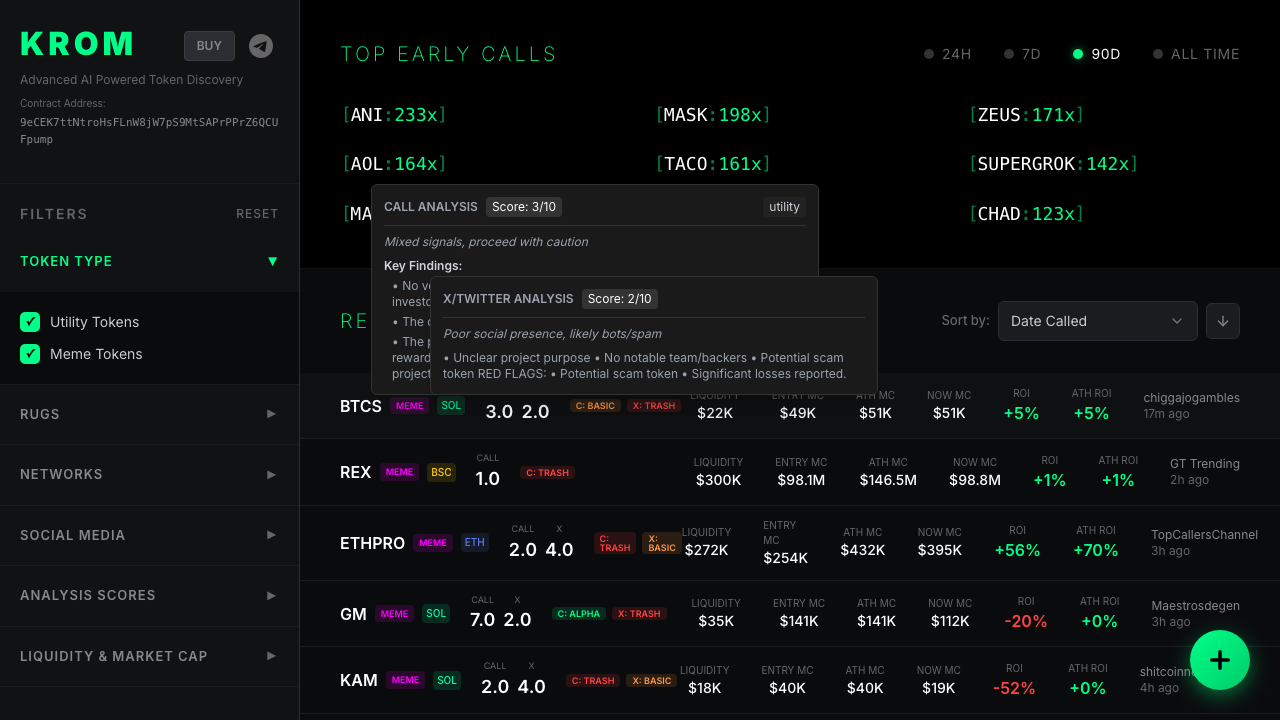
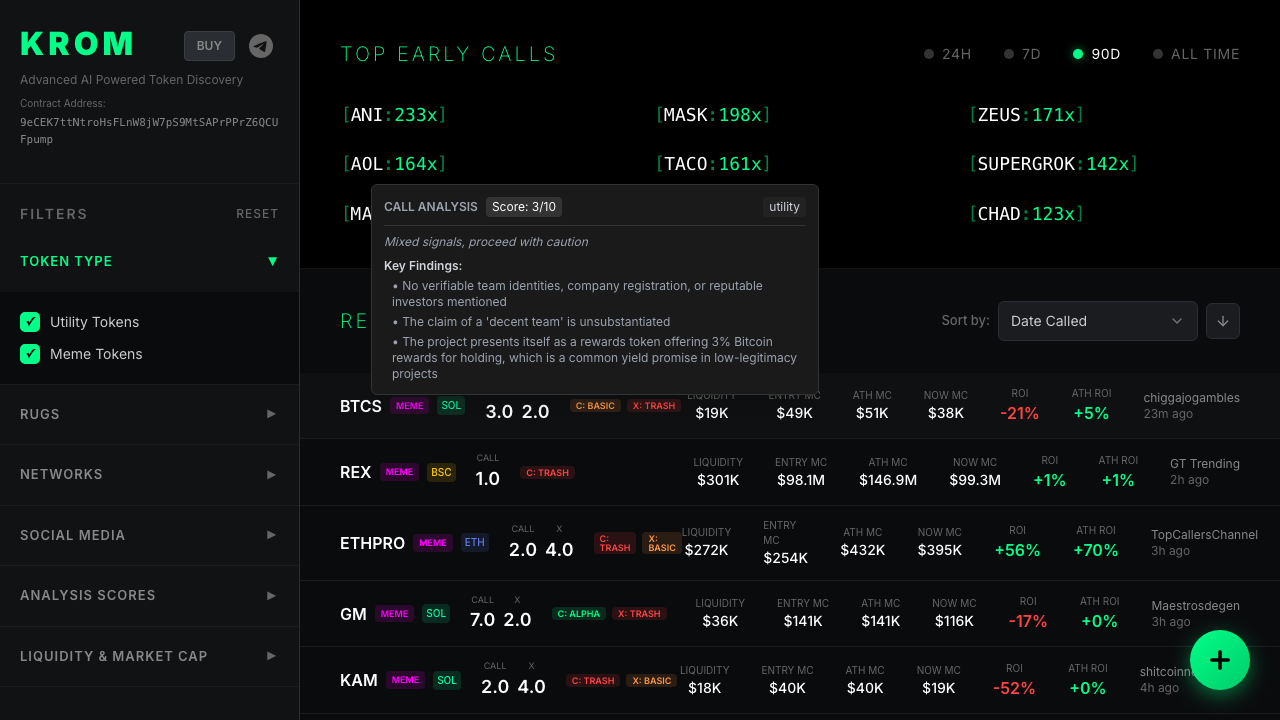
fix: Configure TooltipProvider with proper delay settings for closing behavior

diff --git a/tests/test-tooltip-closing.spec.ts b/tests/test-tooltip-closing.spec.ts
@@ -1,0 +1,57 @@
+import { test, expect } from '@playwright/test';
+
+test('Tooltips close when mouse leaves', async ({ page }) => {
+  // Navigate to the page
+  await page.goto('https://lively-torrone-8199e0.netlify.app');
+  
+  // Wait for content to load
+  await page.waitForSelector('text=RECENT CALLS', { timeout: 30000 });
+  await page.waitForTimeout(3000);
+  
+  // Find badges
+  const callBadge = page.locator('span:has-text("C:")').first();
+  const callBadgeCount = await callBadge.count();
+  
+  if (callBadgeCount === 0) {
+    console.log('No Call badges found, skipping test');
+    return;
+  }
+  
+  console.log('Testing tooltip open/close behavior...');
+  
+  // Test 1: Hover on Call badge
+  await callBadge.scrollIntoViewIfNeeded();
+  await callBadge.hover();
+  await page.waitForTimeout(500);
+  
+  let tooltipsVisible = await page.locator('[role="tooltip"]').count();
+  console.log(`After hovering Call badge: ${tooltipsVisible} tooltip(s) visible`);
+  expect(tooltipsVisible).toBe(1);
+  
+  // Test 2: Move mouse away - tooltip should disappear
+  await page.mouse.move(100, 100); // Move to a neutral position
+  await page.waitForTimeout(500);
+  
+  tooltipsVisible = await page.locator('[role="tooltip"]').count();
+  console.log(`After moving mouse away: ${tooltipsVisible} tooltip(s) visible`);
+  expect(tooltipsVisible).toBe(0);
+  
+  // Test 3: Hover again to ensure it can reopen
+  await callBadge.hover();
+  await page.waitForTimeout(500);
+  
+  tooltipsVisible = await page.locator('[role="tooltip"]').count();
+  console.log(`After hovering again: ${tooltipsVisible} tooltip(s) visible`);
+  expect(tooltipsVisible).toBe(1);
+  
+  // Test 4: Hover on a different element - tooltip should close
+  const header = page.locator('text=RECENT CALLS').first();
+  await header.hover();
+  await page.waitForTimeout(500);
+  
+  tooltipsVisible = await page.locator('[role="tooltip"]').count();
+  console.log(`After hovering on header: ${tooltipsVisible} tooltip(s) visible`);
+  expect(tooltipsVisible).toBe(0);
+  
+  console.log('✅ Tooltips properly close when mouse leaves');
+});

diff --git a/app/layout.tsx b/app/layout.tsx
@@ -41,7 +41,7 @@ export default function RootLayout({
         />
       </head>
       <body className={`${inter.className} min-h-screen bg-background antialiased`}>
-        <TooltipProvider>
+        <TooltipProvider delayDuration={300} skipDelayDuration={500}>
           <ConditionalLayout>
             {children}
           </ConditionalLayout>

diff --git a/components/CallAnalysisTooltip.tsx b/components/CallAnalysisTooltip.tsx
@@ -55,7 +55,7 @@ export function CallAnalysisTooltip({
   }
 
   return (
-    <Tooltip delayDuration={300}>
+    <Tooltip>
       <TooltipTrigger asChild>
         {children}
       </TooltipTrigger>

diff --git a/components/XAnalysisTooltip.tsx b/components/XAnalysisTooltip.tsx
@@ -70,7 +70,7 @@ export function XAnalysisTooltip({
   }
 
   return (
-    <Tooltip delayDuration={300}>
+    <Tooltip>
       <TooltipTrigger asChild>
         {children}
       </TooltipTrigger>

diff --git a/test-results/tests-test-tooltip-closing-Tooltips-close-when-mouse-leaves/error-context.md b/test-results/tests-test-tooltip-closing-Tooltips-close-when-mouse-leaves/error-context.md
@@ -1,0 +1,90 @@
+# Page snapshot
+
+```yaml
+- main:
+  - heading "KROM" [level=1]
+  - button "BUY"
+  - button:
+    - img
+  - paragraph: Advanced AI Powered Token Discovery
+  - text: "Contract Address: 9eCEK7ttNtroHsFLnW8jW7pS9MtSAPrPPrZ6QCUFpump"
+  - heading "FILTERS" [level=2]
+  - button "Reset"
+  - heading "Token Type" [level=3]
+  - text: ▼ ✓ Utility Tokens ✓ Meme Tokens
+  - heading "Rugs" [level=3]
+  - text: "▼ Include Rugs When unchecked, hides tokens with:"
+  - list:
+    - listitem: ATH ROI < 20% AND
+    - listitem: Current ROI < -75% AND
+    - listitem: Liquidity & Market Cap both < $50K
+  - text: Include Imposters When unchecked, hides tokens marked as having inauthentic websites
+  - heading "Networks" [level=3]
+  - text: ▼ ✓ Ethereum ✓ Solana ✓ BSC ✓ Base
+  - heading "Social Media" [level=3]
+  - text: ▼ Has Website Has Twitter/X Has Telegram
+  - heading "Analysis Scores" [level=3]
+  - text: ▼ Min Call Score 1
+  - slider: "1"
+  - text: 1 5 10 Min X Score 1
+  - slider: "1"
+  - text: 1 5 10 Min Website Score 1.0
+  - slider: "1"
+  - text: 1 5 10
+  - button "Reset Score Filters"
+  - heading "Liquidity & Market Cap" [level=3]
+  - text: ▼ Liquidity (USD)
+  - spinbutton
+  - text: "-"
+  - spinbutton
+  - text: Market Cap (USD)
+  - spinbutton
+  - text: "-"
+  - spinbutton
+  - button "Clear Range Filters"
+  - text: TOP EARLY CALLS
+  - button "24H"
+  - button "7D"
+  - button "90D"
+  - button "ALL TIME"
+  - text: "[ANI:233x] [MASK:198x] [ZEUS:171x] [AOL:164x] [TACO:161x] [SUPERGROK:142x] [MANYU:131x] [SPARK:125x] [CHAD:123x]"
+  - heading "RECENT CALLS" [level=2]
+  - button "Column Settings":
+    - img
+  - button "Search":
+    - img
+  - text: "Sort by:"
+  - combobox: Date Called
+  - button "Sort descending":
+    - img
+  - text: "BTCS MEME SOL CALL 3.0 X 2.0 C: BASIC CALL ANALYSIS Score: 3/10 utility Mixed signals, proceed with caution Key Findings: • No verifiable team identities, company registration, or reputable investors mentioned • The claim of a 'decent team' is unsubstantiated • The project presents itself as a rewards token offering 3% Bitcoin rewards for holding, which is a common yield promise in low-legitimacy projects"
+  - 'tooltip "CALL ANALYSIS Score: 3/10 utility Mixed signals, proceed with caution Key Findings: • No verifiable team identities, company registration, or reputable investors mentioned • The claim of a ''decent team'' is unsubstantiated • The project presents itself as a rewards token offering 3% Bitcoin rewards for holding, which is a common yield promise in low-legitimacy projects"'
+  - text: "X: TRASH LIQUIDITY $19K ENTRY MC $49K ATH MC $51K NOW MC $38K ROI -21% ATH ROI +5% chiggajogambles 24m ago REX MEME BSC CALL 1.0 C: TRASH LIQUIDITY $301K ENTRY MC $98.1M ATH MC $146.9M NOW MC $99.3M ROI +1% ATH ROI +1% GT Trending 2h ago ETHPRO MEME ETH CALL 2.0 X 4.0 C: TRASH X: BASIC LIQUIDITY $272K ENTRY MC $254K ATH MC $432K NOW MC $395K ROI +56% ATH ROI +70% TopCallersChannel 3h ago GM MEME SOL CALL 7.0 X 2.0 C: ALPHA X: TRASH LIQUIDITY $36K ENTRY MC $141K ATH MC $141K NOW MC $116K ROI -17% ATH ROI +0% Maestrosdegen 3h ago KAM MEME SOL CALL 2.0 X 4.0 C: TRASH X: BASIC LIQUIDITY $18K ENTRY MC $40K ATH MC $40K NOW MC $19K ROI -52% ATH ROI +0% shitcoinneverland 4h ago LOS UTILITY SOL CALL 2.0 X 2.0 C: BASIC X: TRASH LIQUIDITY $206K ENTRY MC $295K ATH MC $707K NOW MC $666K ROI +126% ATH ROI +140% luigiscalls 5h ago AIRI UTILITY SOL CALL 5.0 X 4.0 C: SOLID X: BASIC LIQUIDITY $120K ENTRY MC $554K ATH MC $1.2M NOW MC $860K ROI +55% ATH ROI +118% chiggajogambles 5h ago LOS UTILITY SOL CALL 2.0 X 2.0 C: TRASH X: TRASH LIQUIDITY $206K ENTRY MC $147K ATH MC $707K NOW MC $666K ROI +353% ATH ROI +381% YodaCallss 6h ago SM MEME SOL CALL 2.0 X 2.0 C: TRASH X: TRASH LIQUIDITY $37K ENTRY MC $153K ATH MC $153K NOW MC $88K ROI -42% ATH ROI +0% lowtaxsolana 6h ago SM MEME SOL CALL 1.0 X 4.0 C: TRASH X: BASIC LIQUIDITY $37K ENTRY MC $186K ATH MC $186K NOW MC $88K ROI -53% ATH ROI +0% mewgambles 6h ago OVPP UTILITY ETH CALL 2.0 X 7.0 C: TRASH X: SOLID LIQUIDITY $1.6M ENTRY MC $41.1M ATH MC $41.1M NOW MC $37.6M ROI -9% ATH ROI +0% TopCallersChannel 7h ago DEGEN MEME SOL CALL 4.0 X 4.0 C: BASIC X: BASIC LIQUIDITY $45K ENTRY MC $130K ATH MC $178K NOW MC $151K ROI +16% ATH ROI +37% Maestrosdegen 7h ago SM MEME SOL CALL 1.0 X 2.0 C: TRASH X: TRASH LIQUIDITY $37K ENTRY MC $68K ATH MC $88K NOW MC $88K ROI +30% ATH ROI +30% Insider_ECA 8h ago MM MEME SOL CALL 1.0 C: TRASH LIQUIDITY $266K ENTRY MC N/A ATH MC N/A NOW MC $3.1M ROI -12% ATH ROI +0% GT Trending 9h ago LFJ MEME SOL CALL 1.0 X 2.0 C: TRASH X: TRASH LIQUIDITY $4K ENTRY MC $32K ATH MC $40K NOW MC $15K ROI -55% ATH ROI +25% shitcoinneverland 9h ago LAURA MEME SOL CALL 7.0 X 2.0 C: ALPHA X: TRASH LIQUIDITY $58K ENTRY MC $300K ATH MC $300K NOW MC $62K ROI -79% ATH ROI +0% metagambler 9h ago TT MEME SOL CALL 2.0 X 2.0 C: TRASH X: TRASH LIQUIDITY $9 ENTRY MC $10K ATH MC $13K NOW MC $9K ROI +6% ATH ROI +23% LuigisGambles 11h ago PULZ UTILITY ETH CALL 2.0 X 7.0 C: TRASH X: SOLID LIQUIDITY $16K ENTRY MC $42K ATH MC $42K NOW MC $23K ROI -46% ATH ROI +0% CryptachCalls 11h ago AIRI UTILITY SOL CALL 7.0 X 2.0 C: ALPHA X: TRASH LIQUIDITY $120K ENTRY MC $753K ATH MC $1.2M NOW MC $860K ROI +14% ATH ROI +60% gubbinscalls 11h ago VVV UTILITY BASE CALL 1.0 C: TRASH LIQUIDITY $10.9M ENTRY MC $120.6M ATH MC $120.6M NOW MC $119.4M ROI -1% ATH ROI +0% GT Trending 11h ago Showing 1-20 of 5565 calls"
+  - button "««" [disabled]
+  - button "‹" [disabled]
+  - button "1"
+  - button "2"
+  - button "3"
+  - button "4"
+  - button "5"
+  - button "›"
+  - button "»»"
+  - button "Settings" [disabled]:
+    - text: Settings
+    - img
+  - button "Leaderboard" [disabled]:
+    - text: Leaderboard
+    - img
+  - button "Analytics" [disabled]:
+    - text: Analytics
+    - img
+  - button "Roadmap":
+    - text: Roadmap
+    - img
+  - button "Charts" [disabled]:
+    - text: Charts
+    - img
+  - button:
+    - img
+- alert
+```
